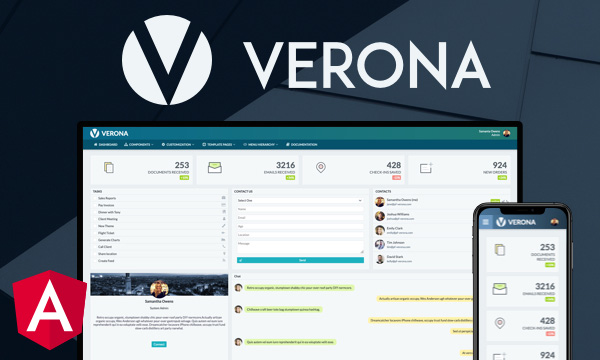
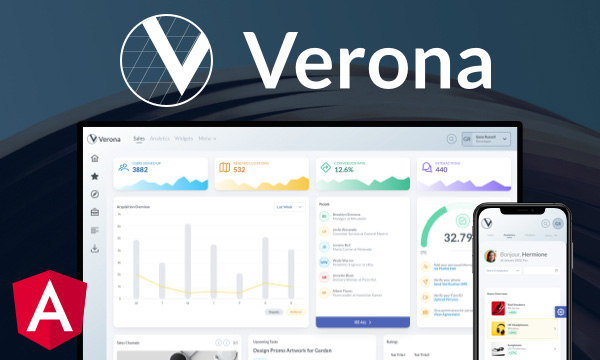
News updated

diff --git a/src/app/showcase/components/home/home.component.html b/src/app/showcase/components/home/home.component.html
@@ -175,6 +175,11 @@
         <p>Gorgeous Angular-CLI application templates designed by professional designers and implemented by Angular Experts to help you reach your goals in no time.</p>
         <div class="p-grid">
             <div class="p-col-12 p-md-3">
+                <a href="https://www.primefaces.org/layouts/verona-ng">
+                    <img alt="Verona" src="assets/showcase/images/layouts/verona-ng.jpg">
+                </a>
+            </div>
+            <div class="p-col-12 p-md-3">
                 <a href="https://www.primefaces.org/layouts/atlantis-ng">
                     <img alt="Atlantis" src="assets/showcase/images/layouts/atlantis-ng.jpg">
                 </a>
@@ -260,11 +265,6 @@
                 </a>
             </div>
             <div class="p-col-12 p-md-3">
-                <a href="https://www.primefaces.org/layouts/verona-ng">
-                    <img alt="Verona" src="assets/showcase/images/layouts/verona-ng.jpg">
-                </a>
-            </div>
-            <div class="p-col-12 p-md-3">
                 <a href="https://www.primefaces.org/layouts/manhattan-ng">
                     <img alt="Manhattan" src="assets/showcase/images/layouts/manhattan-ng.jpg">
                 </a>
@@ -296,9 +296,9 @@
                 <div class="p-col-12 p-md-6">
                     <p>PrimeNG offers premium Angular CLI templates designed by our professional design team and implemented by the PrimeNG team.
                      Various other 3rd party Angular templates are actually ports from other technologies and they bring the burden of a <strong>dependency hell</strong>.
-                     PrimeNG templates on the other hand utilize native Angular APIs, distributed as a CLI project, have a single dependency that is PrimeNG featuring top notch quality resulting in easier maintenance and unified look. 
+                     PrimeNG templates on the other hand utilize native Angular APIs, distributed as a CLI project, have a single dependency that is PrimeNG featuring top notch quality resulting in easier maintenance and unified look.
                      Wondering about how PrimeNG premium templates are implemented? Check out the <a href="https://github.com/primefaces/primeng-blueprint">primeng-blueprint</a> project at GitHub and the <a href="https://www.primefaces.org/primeng-blueprint">live demo</a> for details.</p>
-                
+
                     <div class="p-grid">
                         <div class="p-col-12 p-md-6">
                             <h5>PrimeNG</h5>
@@ -356,7 +356,7 @@
             </div>
         </div>
     </div>
-    
+
     <div class="primeflex">
         <div class="p-grid">
             <div class="p-col-12 p-md-6">

diff --git a/src/app/showcase/app.topbar.component.ts b/src/app/showcase/app.topbar.component.ts
@@ -90,6 +90,12 @@ import { Subscription } from 'rxjs';
                     <ul [@overlayMenuAnimation]="'visible'" *ngIf="activeMenuIndex === 1" (@overlayMenuAnimation.start)="onOverlayMenuEnter($event)">
                         <li class="topbar-submenu-header">PREMIUM ADMIN TEMPLATES</li>
                         <li>
+                            <a href="https://www.primefaces.org/layouts/verona-ng">
+                                <img alt="Verona" src="assets/showcase/images/layouts/verona-logo.png">
+                                <span>Verona</span>
+                            </a>
+                        </li>
+                        <li>
                             <a href="https://www.primefaces.org/layouts/atlantis-ng">
                                 <img alt="Atlantis" src="assets/showcase/images/layouts/atlantis-logo.svg">
                                 <span>Atlantis</span>
@@ -189,12 +195,6 @@ import { Subscription } from 'rxjs';
                             <a href="https://www.primefaces.org/layouts/avalon-ng">
                                 <img alt="Avalon" src="assets/showcase/images/layouts/avalon-logo.png">
                                 <span>Avalon</span><span class="theme-badge bootstrap">bootstrap</span>
-                            </a>
-                        </li>
-                        <li>
-                            <a href="https://www.primefaces.org/layouts/verona-ng">
-                                <img alt="Verona" src="assets/showcase/images/layouts/verona-logo.png">
-                                <span>Verona</span>
                             </a>
                         </li>
                         <li>

diff --git a/src/app/showcase/app.config.component.ts b/src/app/showcase/app.config.component.ts
@@ -313,6 +313,11 @@ import { DomHandler } from 'primeng/dom';
                         <p>Beautifully crafted premium <a href="https://cli.angular.io/">Angular CLI</a> application templates by the PrimeTek design team.</p>
                         <div class="p-grid premium-themes">
                             <div class="p-col-12 p-md-4">
+                                <a href="https://www.primefaces.org/layouts/verona-ng">
+                                    <img alt="Verona" src="assets/showcase/images/layouts/verona-ng.jpg">
+                                </a>
+                            </div>
+                            <div class="p-col-12 p-md-4">
                                 <a href="https://www.primefaces.org/layouts/atlantis-ng">
                                     <img alt="Atlantis" src="assets/showcase/images/layouts/atlantis-ng.jpg">
                                 </a>
@@ -395,11 +400,6 @@ import { DomHandler } from 'primeng/dom';
                             <div class="p-col-12 p-md-4">
                                 <a href="https://www.primefaces.org/layouts/avalon-ng">
                                     <img alt="Avalon" src="assets/showcase/images/layouts/avalon-ng.jpg">
-                                </a>
-                            </div>
-                            <div class="p-col-12 p-md-4">
-                                <a href="https://www.primefaces.org/layouts/verona-ng">
-                                    <img alt="Verona" src="assets/showcase/images/layouts/verona-ng.jpg">
                                 </a>
                             </div>
                             <div class="p-col-12 p-md-4">

diff --git a/src/app/showcase/app.news.component.ts b/src/app/showcase/app.news.component.ts
@@ -5,8 +5,8 @@ import {Component, Input, EventEmitter, Output} from '@angular/core';
     template: `
         <div class="layout-news">
             <div class="layout-news-container" (click)="redirect()">
-                <img class="layouts-news-mockup-image" src="assets/showcase/images/topbar-primeblocks-device.png">
-                <a href="https://www.primefaces.org/primeblocks-ng" target="_blank"  style="text-decoration: none" class="layout-news-button">
+                <img class="layouts-news-mockup-image" src="assets/showcase/images/topbar-verona-device.png">
+                <a href="https://www.primefaces.org/verona-ng" target="_blank"  style="text-decoration: none" class="layout-news-button">
                     LEARN MORE<i class="pi pi-angle-right"></i>
                 </a>
                 <a tabindex="0" class="layout-news-close" (click)="hideNews($event)">
@@ -28,6 +28,6 @@ export class AppNewsComponent {
     }
 
     redirect() {
-        window.location.href = "https://www.primefaces.org/primeblocks-ng";
+        window.location.href = "https://www.primefaces.org/verona-ng";
     }
 }

diff --git a/src/assets/showcase/styles/app/_news.scss b/src/assets/showcase/styles/app/_news.scss
@@ -4,8 +4,7 @@
     justify-content: center;
     align-items: center;
     margin-left: 250px;
-    background-image: linear-gradient(197.37deg, rgba(0, 120, 227, 0.07) -0.38%, rgba(165, 72, 181, 0) 101.89%), linear-gradient(115.93deg, rgba(62, 136, 246, 0.15) 4.86%, rgba(62, 180, 246, 0.0495) 38.05%, rgba(62, 235, 246, 0) 74.14%), radial-gradient(56.47% 76.87% at 6.92% 7.55%, rgba(62, 136, 246, 0.05) 0%, rgba(62, 158, 246, 0.013) 52.16%, rgba(62, 246, 246, 0) 100%), linear-gradient(306.53deg, rgba(163, 171, 217, 0.1) 19.83%, rgba(163, 171, 217, 0) 97.33%);
-    background-color: white;
+    background-image: url(../../../../assets/showcase/images/topbar-verona-bg.png);
 
     .layout-news-container {
         width: 100%;
@@ -22,8 +21,8 @@
         }
 
         .layout-news-button {
-            border: 1px solid #283738;
-            color: #283738;
+            border: 1px solid #ffffff;
+            color: #ffffff;
             font-size: 15px;
             padding: .3em .3em .5em 1em;
             font-weight: bold;
